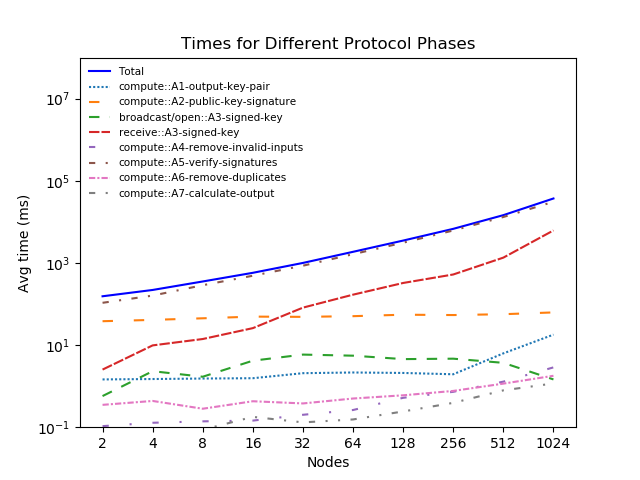
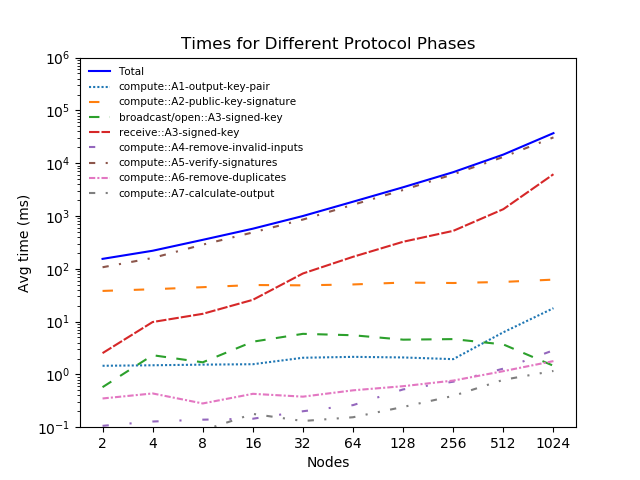
change to 10e6

diff --git a/results/analysis.py b/results/analysis.py
@@ -260,7 +260,7 @@ def generate_plot_by_subtask(directory):
     plt.xscale("log")
     plt.yscale("log")
     # plt.xlim((2, 1024))
-    plt.ylim((1e-1, 1e8))
+    plt.ylim((1e-1, 1e6))
     plt.tick_params(
         axis='x',          # changes apply to the x-axis
         which='minor',      # both major and minor ticks are affected
